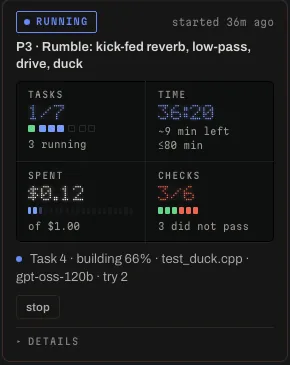
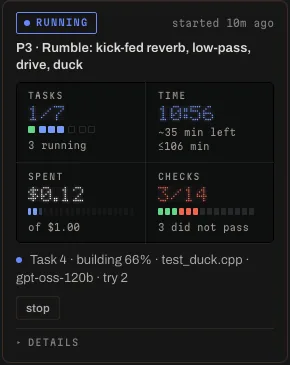
0.9 E: the docs' images show 0.9's final readings and contrast (taken after work/v9-readings merged)
- From hermes-pilot-v8's real phase 7.3 run on the merged plugin: the hero (a live run, 3 of 10 checks), the passed
  run with its review key (10 of 10) and the merge dialog; Plans and Learning on 3cbcd23.
- Re-shot in the scratch world on 3cbcd23: the run at night (CHECKS fixed from the start: 3 of 14, its replay roko
  serving the tasks' verify steps and the plan's last run as roko 456afc779 does), a task's panel, the chat's cards,
  the side pane, and New run in a project with a plain name (my-app); the dashboard's run, phone and chat line.
- The alt texts say what each image now shows. All 13 under 80 KB; OCR-scanned clean.

diff --git a/README.md b/README.md
@@ -1,7 +1,7 @@
 # roko for Hermes
 
 <p align="center">
-  <img src="docs/images/hero.webp" alt="A run's page in the Hermes desktop app: RUNNING, its title, four readings on black glass (0 of 3 tasks, 1:02, $0.40 of $3.00, no checks yet), Task 2 running its tests on gpt-5.4-mini, the plan with two tasks running and one waiting, and the models it uses" width="820">
+  <img src="docs/images/hero.webp" alt="A run's page in the Hermes desktop app: RUNNING, its title, four readings on black glass (1 of 3 tasks, 2:21 with about 4 minutes left, $0.16 of $2.00, 3 of 10 checks), Task 1 running its tests on gpt-5.4-mini, the plan with one task passed, one running and one waiting, and the models it uses" width="820">
 </p>
 
 **Hand work from [Hermes Agent](https://github.com/NousResearch/hermes-agent) to [roko](https://github.com/wpank/roko),
@@ -16,7 +16,7 @@ as it happens: the desktop app, the web dashboard, the terminal and every chat p
 
 <table>
   <tr>
-    <td><img src="docs/images/desktop-run-dark.webp" alt="A run's page in the Hermes desktop app at night: 1 of 7 tasks passed and 3 running, 11:18 with about 34 minutes left, $0.12 of $1.00, 3 of 6 checks passed; the plan with its steps, and the models it uses"></td>
+    <td><img src="docs/images/desktop-run-dark.webp" alt="A run's page in the Hermes desktop app at night: 1 of 7 tasks passed and 3 running, 10:00 with about 36 minutes left, $0.12 of $1.00, 3 of 14 checks passed and 3 that did not; the plan with its steps, and the models it uses"></td>
     <td><img src="docs/images/dashboard-run.webp" alt="A run's page in the Hermes web dashboard, in the dashboard's own look: 2 of 5 tasks passed, the time, $0.04 of $1.00, 5 of 5 checks, and the plan"></td>
   </tr>
   <tr>
@@ -61,21 +61,21 @@ and the task's next try gets it.
 merge sits there: it asks first, takes exactly the commit you reviewed into your branch, and shows the command that
 undoes it. A merged run says where its work went.
 
-<p align="center"><img src="docs/images/desktop-run-passed.webp" alt="A passed run's page: PASSED, 5 of 5 tasks, 22:13, $1.32 of $5.00, 10 of 10 checks, Ready to merge: 10 files changed on its own branch, and the orange review key" width="820"></p>
+<p align="center"><img src="docs/images/desktop-run-passed.webp" alt="A passed run's page: PASSED, 3 of 3 tasks, 4:59, $0.17 of $2.00, 10 of 10 checks, Ready to merge: 5 files changed on its own branch, the orange review key, the plan and the models it ran on" width="820"></p>
 
-<p align="center"><img src="docs/images/desktop-merge.webp" alt="The merge dialog: Merge this run's work into main? 10 files, +343 −165, a fast-forward in the project; only the commit you reviewed is merged, and you get the command to undo it" width="540"></p>
+<p align="center"><img src="docs/images/desktop-merge.webp" alt="The merge dialog: Merge this run's work into main? 5 files, +49 −55, a fast-forward in the project; only the commit you reviewed is merged, and you get the command to undo it" width="540"></p>
 
 **Plans.** A project built in phases gets its build at the top of Plans: the phases on the glass, what to do next in
 one sentence with its key, and a pad per phase. Every plan has a line, and each plan has its own page.
 
-<p align="center"><img src="docs/images/desktop-plans.webp" alt="Plans: the Undertow build, four phases passed, eleven tasks, 21 minutes and $3.02 on the glass, a pad per phase, and every plan as a line" width="820"></p>
+<p align="center"><img src="docs/images/desktop-plans.webp" alt="Plans: the Undertow build, with 9 of 10 phases, 32 of 32 tasks, 1 hour 51 minutes over 12 runs and $12.54 on the glass, and a pad per phase" width="820"></p>
 
 **Learning.** Is roko getting better at your project? Three readings answer it: what a passed task costs, how often a
 task passes on its first try, and how often a task moves up to a stronger model. Below them, which models did the
 work and the lessons that paid off. How roko's loops work, how it keeps itself steady, every lesson and the checks'
 figures are folded under them.
 
-<p align="center"><img src="docs/images/desktop-learning.webp" alt="Learning: $0.12 per passed task, down 27% from the first runs; 100% passed on the first try; which models passed the work; three lessons that paid off" width="820"></p>
+<p align="center"><img src="docs/images/desktop-learning.webp" alt="Learning: $0.16 per passed task, down 5% from the first runs; 100% passed on the first try; which models passed the work; three lessons that paid off" width="820"></p>
 
 **Stay in the conversation.** In a chat, the run is a card with the same head as its page, and it moves while the run
 does. A side pane beside the chat follows the newest run, and the status bar shows roko's most urgent state.

diff --git a/docs/using-roko.md b/docs/using-roko.md
@@ -449,13 +449,13 @@ it, or drag along it). It shows where the time went and what ran at the same tim
 
 A run that passed has one orange key, **review**.
 
-![A passed run: 5 of 5 tasks, its time, $1.32 of $5.00, 10 of 10 checks, ready to merge, and the review key](images/desktop-run-passed.webp)
+![A passed run: 3 of 3 tasks, its time, $0.17 of $2.00, 10 of 10 checks, ready to merge, and the review key](images/desktop-run-passed.webp)
 
 It opens the run's changes: the files on the left, each file's changes on the right. **merge into main** takes exactly
 the commit you reviewed into the branch your checkout is on, after a dialog: a fast-forward when nothing else changed,
 or a merge commit when your branch moved on without conflicting. Then it shows the command that undoes it.
 
-![The merge dialog: 10 files, +343 −165, a fast-forward in the project; only the commit you reviewed is merged](images/desktop-merge.webp)
+![The merge dialog: 5 files, +49 −55, a fast-forward in the project; only the commit you reviewed is merged](images/desktop-merge.webp)
 
 When it can't merge (uncommitted changes, a conflict, a checkout in the middle of a rebase, roko on another
 machine), it says why and gives the command to run yourself. A merged run says where its work went, and has no key.
@@ -473,7 +473,7 @@ Every plan roko has, a line each, and each plan its own page: its document, its 
 estimate, and **run plan** with a cap. A project built in phases (its specs named `docs/specs/phase-<n>-<name>.md`)
 gets its build at the top: the phases on the glass, what to do next in one sentence with its key, and a pad per phase.
 
-![Plans: the Undertow build, four phases passed on the glass, a pad per phase, and every plan as a line](images/desktop-plans.webp)
+![Plans: the Undertow build, 9 of its 10 phases passed on the glass, and a pad per phase](images/desktop-plans.webp)
 
 ### Learning
 
@@ -483,7 +483,7 @@ models passed the work and the lessons that paid off. Folded: roko's five loops 
 steady, every lesson it keeps (with a search), and the checks' figures. **runs from hermes** counts the runs Hermes
 started in this project; **workspace** counts every run roko recorded here.
 
-![Learning: $0.12 per passed task, down 27% from the first runs; 100% passed on the first try; the models that passed the work; three lessons that paid off](images/desktop-learning.webp)
+![Learning: $0.16 per passed task, down 5% from the first runs; 100% passed on the first try; the models that passed the work; three lessons that paid off](images/desktop-learning.webp)
 
 ### Beside the chat
 
